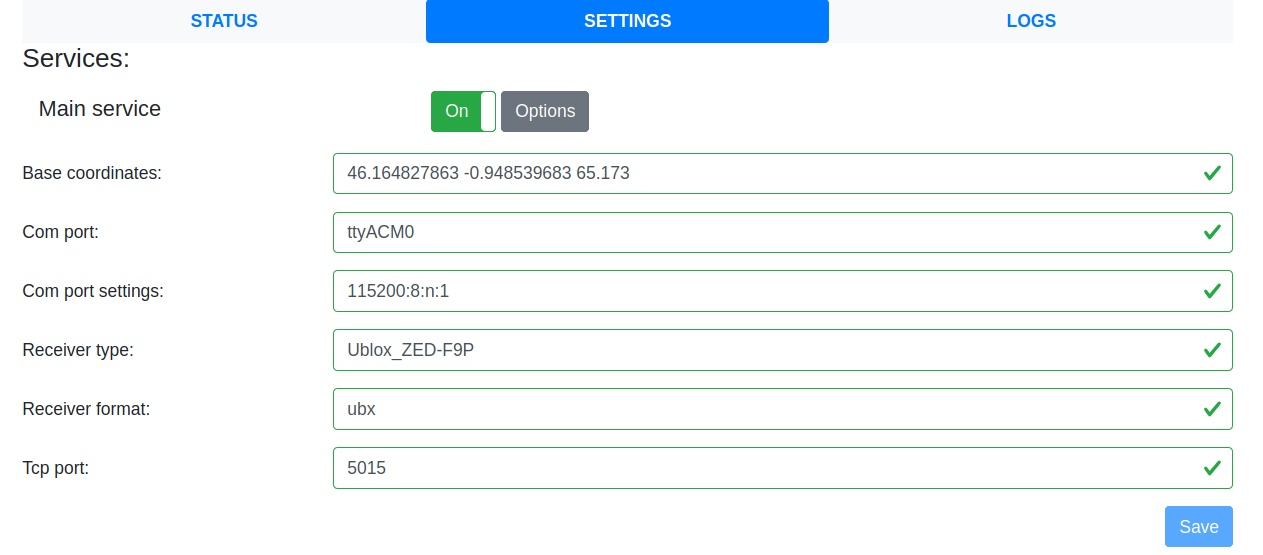
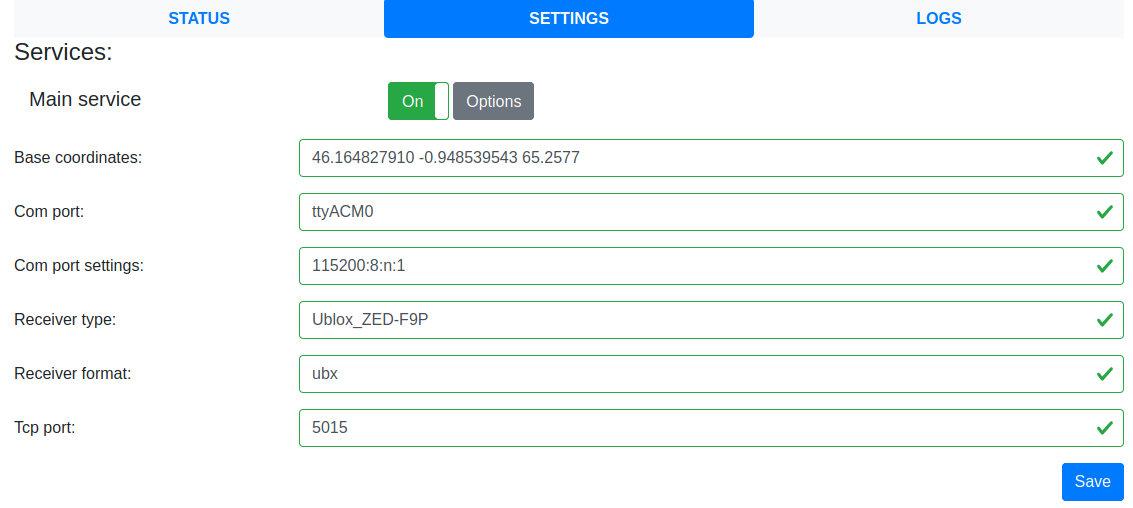
upd rtkbase 2.1

diff --git a/docs/base/positionnement.md b/docs/base/positionnement.md
@@ -11,76 +11,53 @@ Nous allons déterminer la position de la base le plus précisément possible.
 
 Votre base va servir de référentiel pour vous mais aussi pour toute personne se trouvant dans sa zone d'action. Il est primordial que sa position soit juste et très précise afin de pourvoir tous travailler sur un même référentiel géographique.
 
-### 1. Télécharger les données de votre base RTK
+### 1. Convertir les logs en fichier RINEX
 
-* Créer un dossier **RINEX** sur votre PC 
-* Se rendre dans l'onglet **logs** de votre base RTK et télécharger un **.zip** complet de 24h.
-* Décompresser le **.zip** dans le dossier **RINEX**
-* C'est le fichier **AAAA-MM-JJ_00-00-00_GNSS-1.ubx** (environ 400 Mo) qui va nous servir pour le calcul de la position
+* Se rendre dans l'onglet **logs** de votre base RTK et cliquer sur le crayon (```edit```) d'un **.zip** complet de 24h.
 
-### 2. Convertir le fichier .ubx en RINEX
+![log2rinex](https://jancelin.github.io/docs-centipedeRTK/assets/images/positionnement/log2rinex1.png)
 
-Télécharger cette version d'RTKLIB fournie par rtkexplorer: [RTKLIB Code: Windows executables](http://rtkexplorer.com/downloads/rtklib-code/){:target="_blank"}
+* Une fenêtre s'ouvre pour vous proposer de convertir le ficheir de log en fichier RINEX compatible avec les services en ligne d'IGN pour le calcul du positionnement précis. Cliquer sur **CREATE**
 
-* Lancer ```rtkconv.exe```
-* Cocher Time start
-	* Renseigner la même date, au format AAAA/MM/JJ, que le fichier **AAAA-MM-JJ_00-00-00_GNSS-1.ubx**
-	* changer le temps en **00:00:00**
-* Cocher Time end
-	* Renseigner la même date, au format AAAA/MM/JJ, que le fichier **AAAA-MM-JJ_00-00-00_GNSS-1.ubx**
-	* changer le temps en **23:59:00**
-* Cocher Interval: **30s**
-* Selectionner votre fichier **.ubx** issue de votre **.zip** dans **RTCM, RCV RAW or RINEX OBS**
-* Selectionner le **format u-blox**
-* laisser cocher seulement la première ligne: AAAA-MM-JJ_00-00-00_GNSS-1**.obs**
-* Modifier l'extension du fichier en **.20o** (AAAA-MM-JJ_00-00-00_GNSS-1**.obs** > AAAA-MM-JJ_00-00-00_GNSS-1**.20o**)
+![log2rinex](https://jancelin.github.io/docs-centipedeRTK/assets/images/positionnement/log2rinex2.png)
 
-![rinex](https://jancelin.github.io/docs-centipedeRTK/assets/images/positionnement/rinex1.png)
+* Patientez pendant la création du fichier pendant env 1 min
 
-* Cliquer sur **Options**
-	* Choisir **Rinex ver 2.11**
-	* Dans **Marker Name** rajouter le Nom (Mount Point) de votre Base RTK
-	* Cocher **GPS**
-	* Cocher toutes les **Observations types**
-	* Cocher **L1**, **L2/E5b**
-	* Dans **Receiver Options** rajouter ```-TADJ=1```
-	* En option, si vous avez le modèle IGS de votre antenne et les informations de qualibrations il est fortement conseillé de les rajouter.
+![log2rinex](https://jancelin.github.io/docs-centipedeRTK/assets/images/positionnement/log2rinex3.png)
 
-![rinex](https://jancelin.github.io/docs-centipedeRTK/assets/images/positionnement/rinex2.png)
+* Télécharger le fichier créé et cliquer ensuite dans la fenêtre sur [IGN](http://rgp.ign.fr/SERVICES/calcul_online.php) afin de lancer le calcul de positionnnement. Une fois la fênetre fermée (```close```) le fichier RINEX est egalement disponible dans la liste des logs avec un nom **AAAA-MM-JJ-MP.20o**, sont poids est d'environ 4 Mo.
 
-* Cliquer sur **OK**
-* Cliquer sur **Convert**
+![log2rinex](https://jancelin.github.io/docs-centipedeRTK/assets/images/positionnement/log2rinex4.png)
 
-Votre fichier **.ubx** va être convertis en fichiers RINEX
     
 ### 3. Post traitement IGN
 
-Cette étape permet de corriger les données brutes de votre base RTK avec les stations de référence du [Réseau Géodésique Permanent](http://rgp.ign.fr/) afin d'obtenir une position corrigée.
+Cette étape permet de corriger les données brutes de votre base RTK avec les stations de référence du [Réseau Géodésique Permanent](http://rgp.ign.fr/) afin d'obtenir une position précise corrigée.
 
 * se rendre sur le site [calculs GNSS Réseau en ligne](http://rgp.ign.fr/SERVICES/calcul_online.php)
-* Importer votre fichier **AAAA-MM-JJ_00-00-00_GNSS-1.20o** dans **Pivot**
-* Garder les paramètres par défaut ( nombre maximum 8 et eloignement maximum 1000 km)
+* Importer votre fichier **AAAA-MM-JJ-MP.20o** dans **Pivot**
+* Renseigner nombre maximum 8 et eloignement maximum 1000 km
 * Renseigner son adresse mail pour recevoir le rapport
 * Actualiser le code avec les flêches bleu et Entrez les 4 lettres.
 * Cliquer sur envoyer la demande
 
 Le rapport de positionnement est transmit après quelques minutes.
 
-![ign](https://jancelin.github.io/docs-centipedeRTK/assets/images/positionnement/ign_reseau_en_ligne.png)
+![ign](https://jancelin.github.io/docs-centipedeRTK/assets/images/positionnement/ign_reseau_en_ligne1.png)
 
 
 ### 4. Interprétation du rapport 
 
-* Le rapport (xxxxxx.tar.gz) est à décompresser dans dans votre répertoire RINEX, il sera également necesssaire de le fournir au moment de la déclaration de votre base sur le réseau Centipede.
+* Le rapport (xxxxxx.tar.gz) est à décompresser, il sera également necesssaire de le fournir au moment de la déclaration de votre base sur le réseau Centipede.
 * Le rapport contient 3 documents:
 	* une aide (readme.txt) vous expliquant la structure du rapport.
 	* une carte au format pdf permettant de visualiser la repartition des stations de reference ainsi que les residus de la mise en reference
 	* le rapport de calcul au format texte 
 * Le rapport est composé de plusieurs parties, la position de votre base se situe à la fin du document dans la zone **====== RGF93 ======**
 * Il est important de regarder la partie **EXACTITUDE ESTIMEE (2*SIGMA)** car elle va vous donner la qualité du calcul, normalement vous ne devez avoir que quelques mm en E_N, E_E et environ le double en E_H.
-* Noter les coordonnées de votre base dans cet ordre **Latitude Longitude Hell** afin de les copier dans votre base RTK
+* Noter les coordonnées de votre base dans cet ordre **Latitude Longitude Hell** afin de les copier dans votre base RTK.
 
-![ign](https://jancelin.github.io/docs-centipedeRTK/assets/images/positionnement/rapport_ign.png)
+![ign](https://jancelin.github.io/docs-centipedeRTK/assets/images/positionnement/rapport_ign1.png)
 
 
 * Passons à la finalisation du Paramétrage du positionnement de votre Base RTK

diff --git a/docs/base/Parametrage.md b/docs/base/Parametrage.md
@@ -43,10 +43,10 @@ L'interface dispose de 3 onglets :
 	* **Power**: permet de redémarrer(Reboot) et d'éteindre(Shutdown) votre base RTK
 ![base gnss](https://jancelin.github.io/docs-centipedeRTK/assets/images/basegnss/basegnss_settings6.png)
 * **LOGS**: 
-	* La base enregistre si le  **File service** est activé le flux de données des satellites. Ces fichiers peuvent être convertis en RINEX (prochainement un module dans la base RTK le permettra) afin de résaliser le calcul de la position précise.
+	* La base enregistre si le  **File service** est activé le flux de données des satellites. Il est indispensable de lancer l'acquisition de logs pour le calcul du positionnement de la base.
 	* Tous les jours à 04h du matin une compression des fichiers du jour précédent est effectuée en .zip
+	* Ces fichiers peuvent être convertis en RINEX après 24h et compression en .zip avec le bouton edit (crayon) afin de résaliser le calcul de la position précise.
 	* Pour lancer une conversion RINEX attendre 24h entières soit 1 journée complète (de 00:01:00 à 23:59:00). Par exemple, si vous démarrez vos logs le 18/07/2020 à 15h30 attendez jusqu'au 20/07/2020 matin.
-	* Cliquer sur ![download](https://jancelin.github.io/docs-centipedeRTK/assets/images/basegnss/basegnss_logs_download.png) pour télécharger le .zip
 
 Passons maintenant au calcul de la position de la base.
 

diff --git a/docs/base/Installation.md b/docs/base/Installation.md
@@ -19,7 +19,7 @@ Dans un premier temps il est nécessaire de mettre à jour le [firmware](https:/
 
 * Télécharger l'image de Base RTK sur votre ordinateur (529Mo):
 
- [BaseGNSS-RPi-1.1.0](https://github.com/jancelin/pi-gen/releases/download/BaseGNSS-RPi-1.1.0/Base_GNSS_1_1_0.zip)
+ [BaseGNSS-RPi-2.1](https://github.com/jancelin/pi-gen/releases/download/BaseGNSS-RPi-2.1/Base_GNSS_2_1.zip)
 
 
 > Ne pas copier directement l'image Base_GNSS_X.X.X.zip sur la carte micro SD !!!
@@ -49,7 +49,7 @@ Quand l'une d'elles s'éteint définitivement (attention à ne pas confondre ave
 
 * sur un PC connecté au même réseau, ouvrir un navigateur Internet et accéder à l'interface de la base RTK via l'URL :
 
- **http://basegnss.local**
+ **http://basegnss.local** ou avec l'ip du Raspberry Pi si vous êtes sur un réseau.
 
 > Mot de passe: ```admin```
 

diff --git a/docs/base/param_positionnement.md b/docs/base/param_positionnement.md
@@ -9,7 +9,7 @@ nav_order: 5
 
 * Revenir dans votre interface **http://basegnss.local**
 
-* Aller dans l'onglet **Settings** > **Main Service** > **Base Coordinates** et changer la position par celle calculée précédemment. ex: **```46.164793681 -0.948418958 63.0686```**
+* Aller dans l'onglet **Settings** > **Main Service** > **Base Coordinates** et changer la position par celle calculée précédemment. ex: **```46.164827910 -0.948539543 65.2577```**
 
 * Enregistrer **Save** 
 
